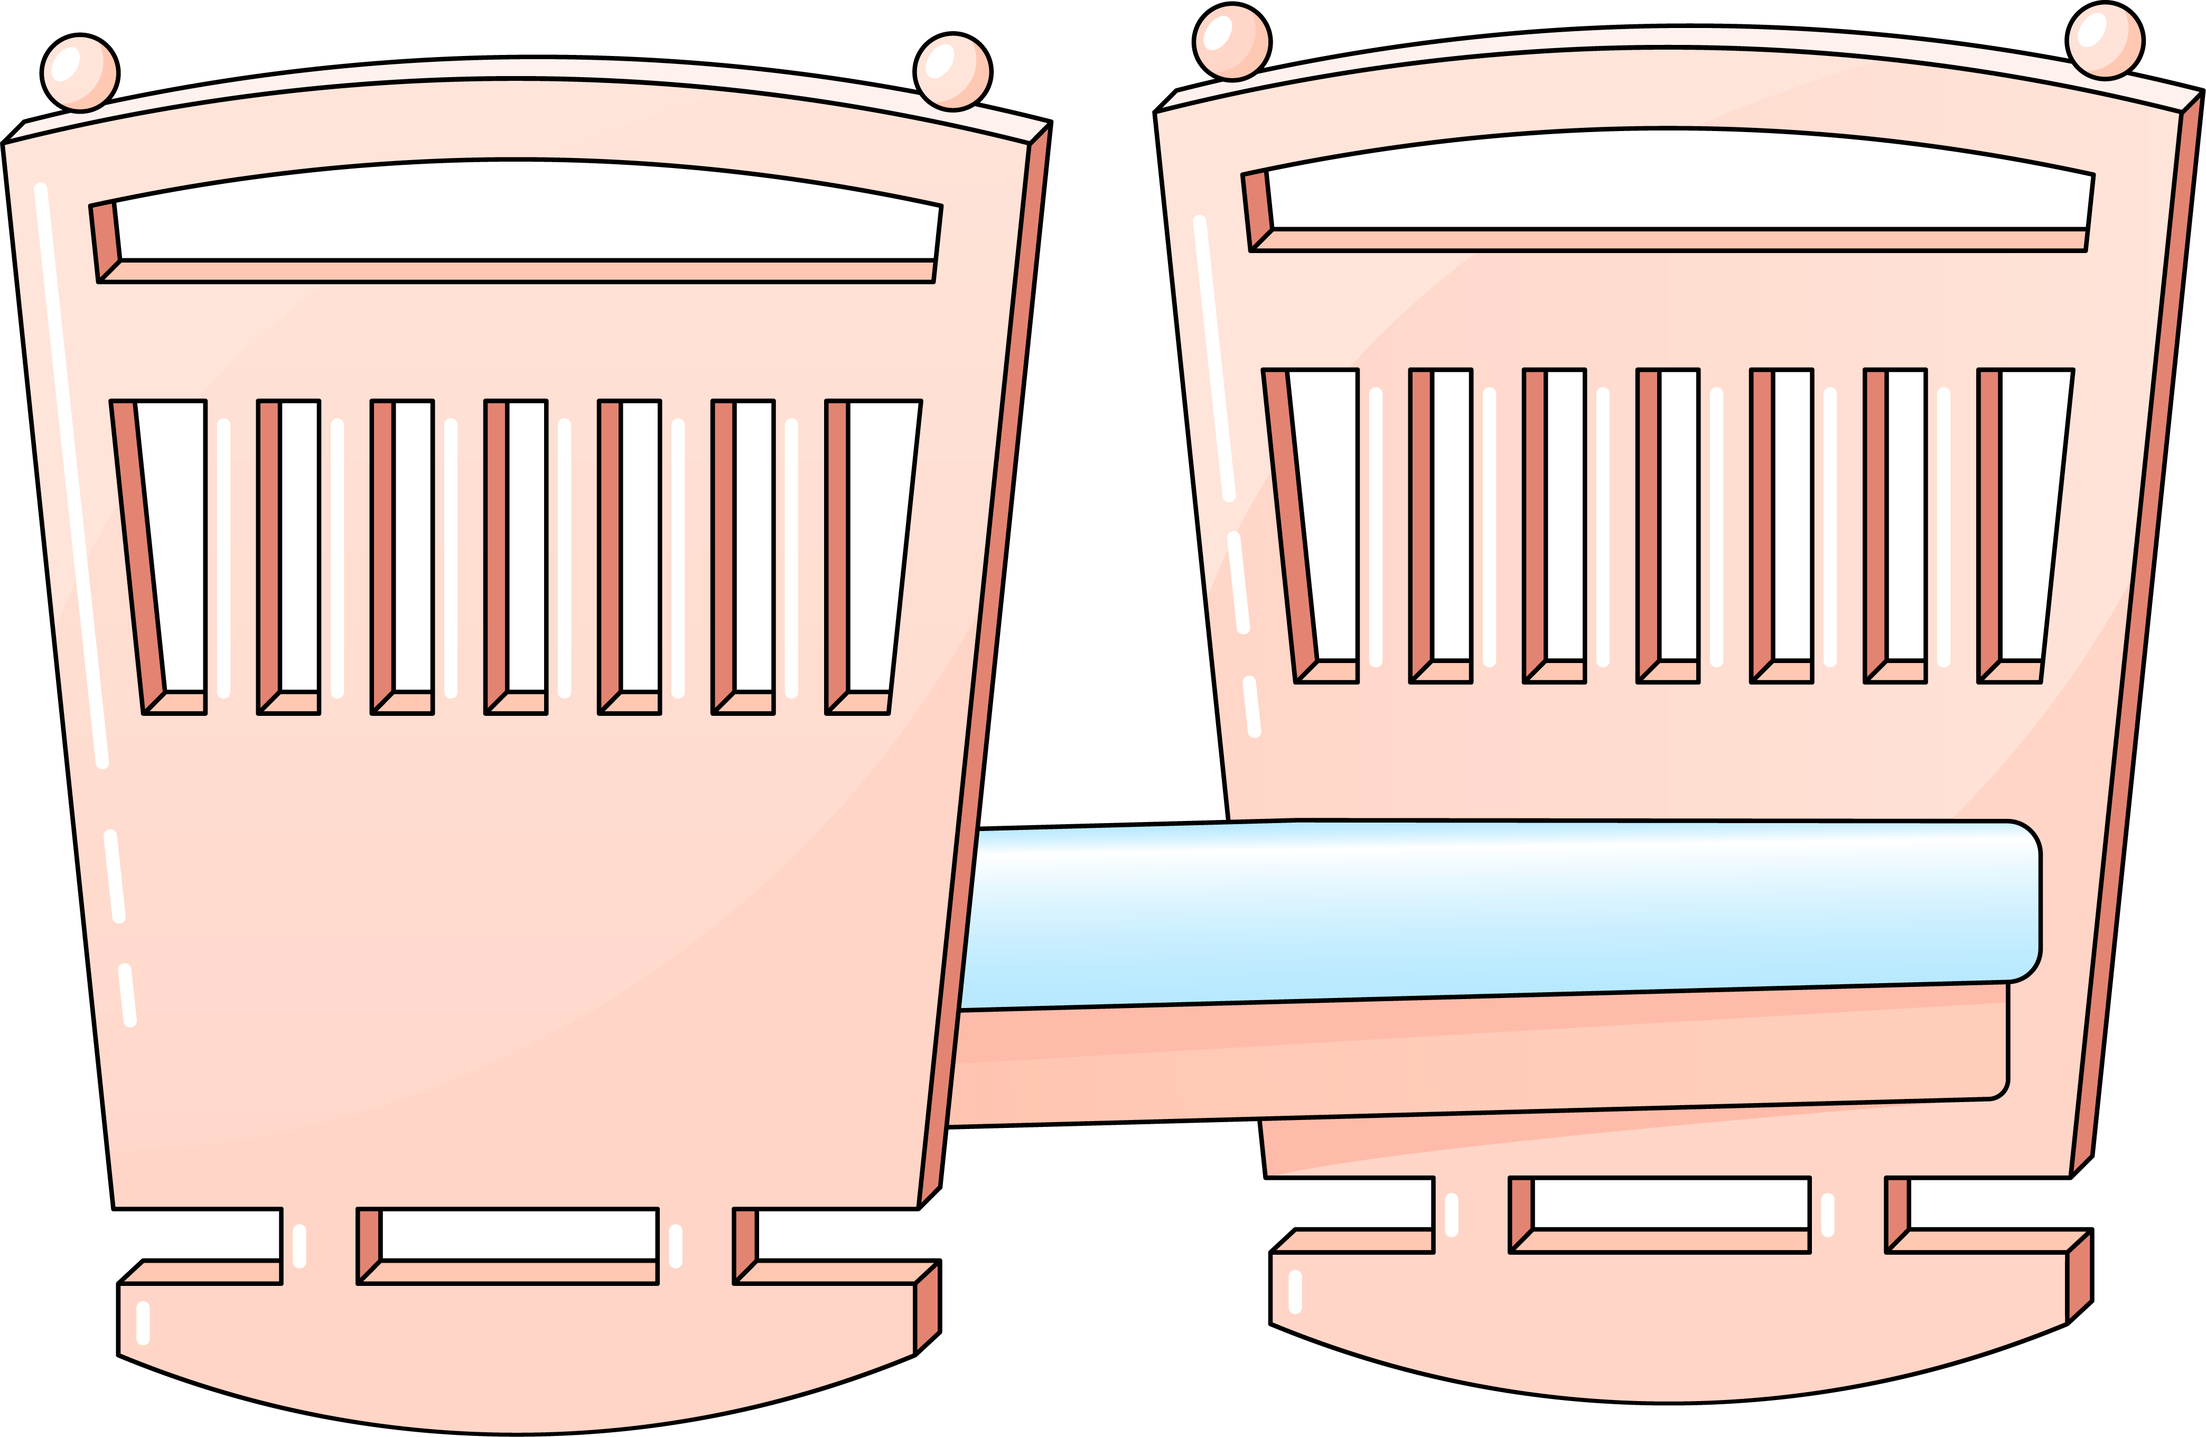
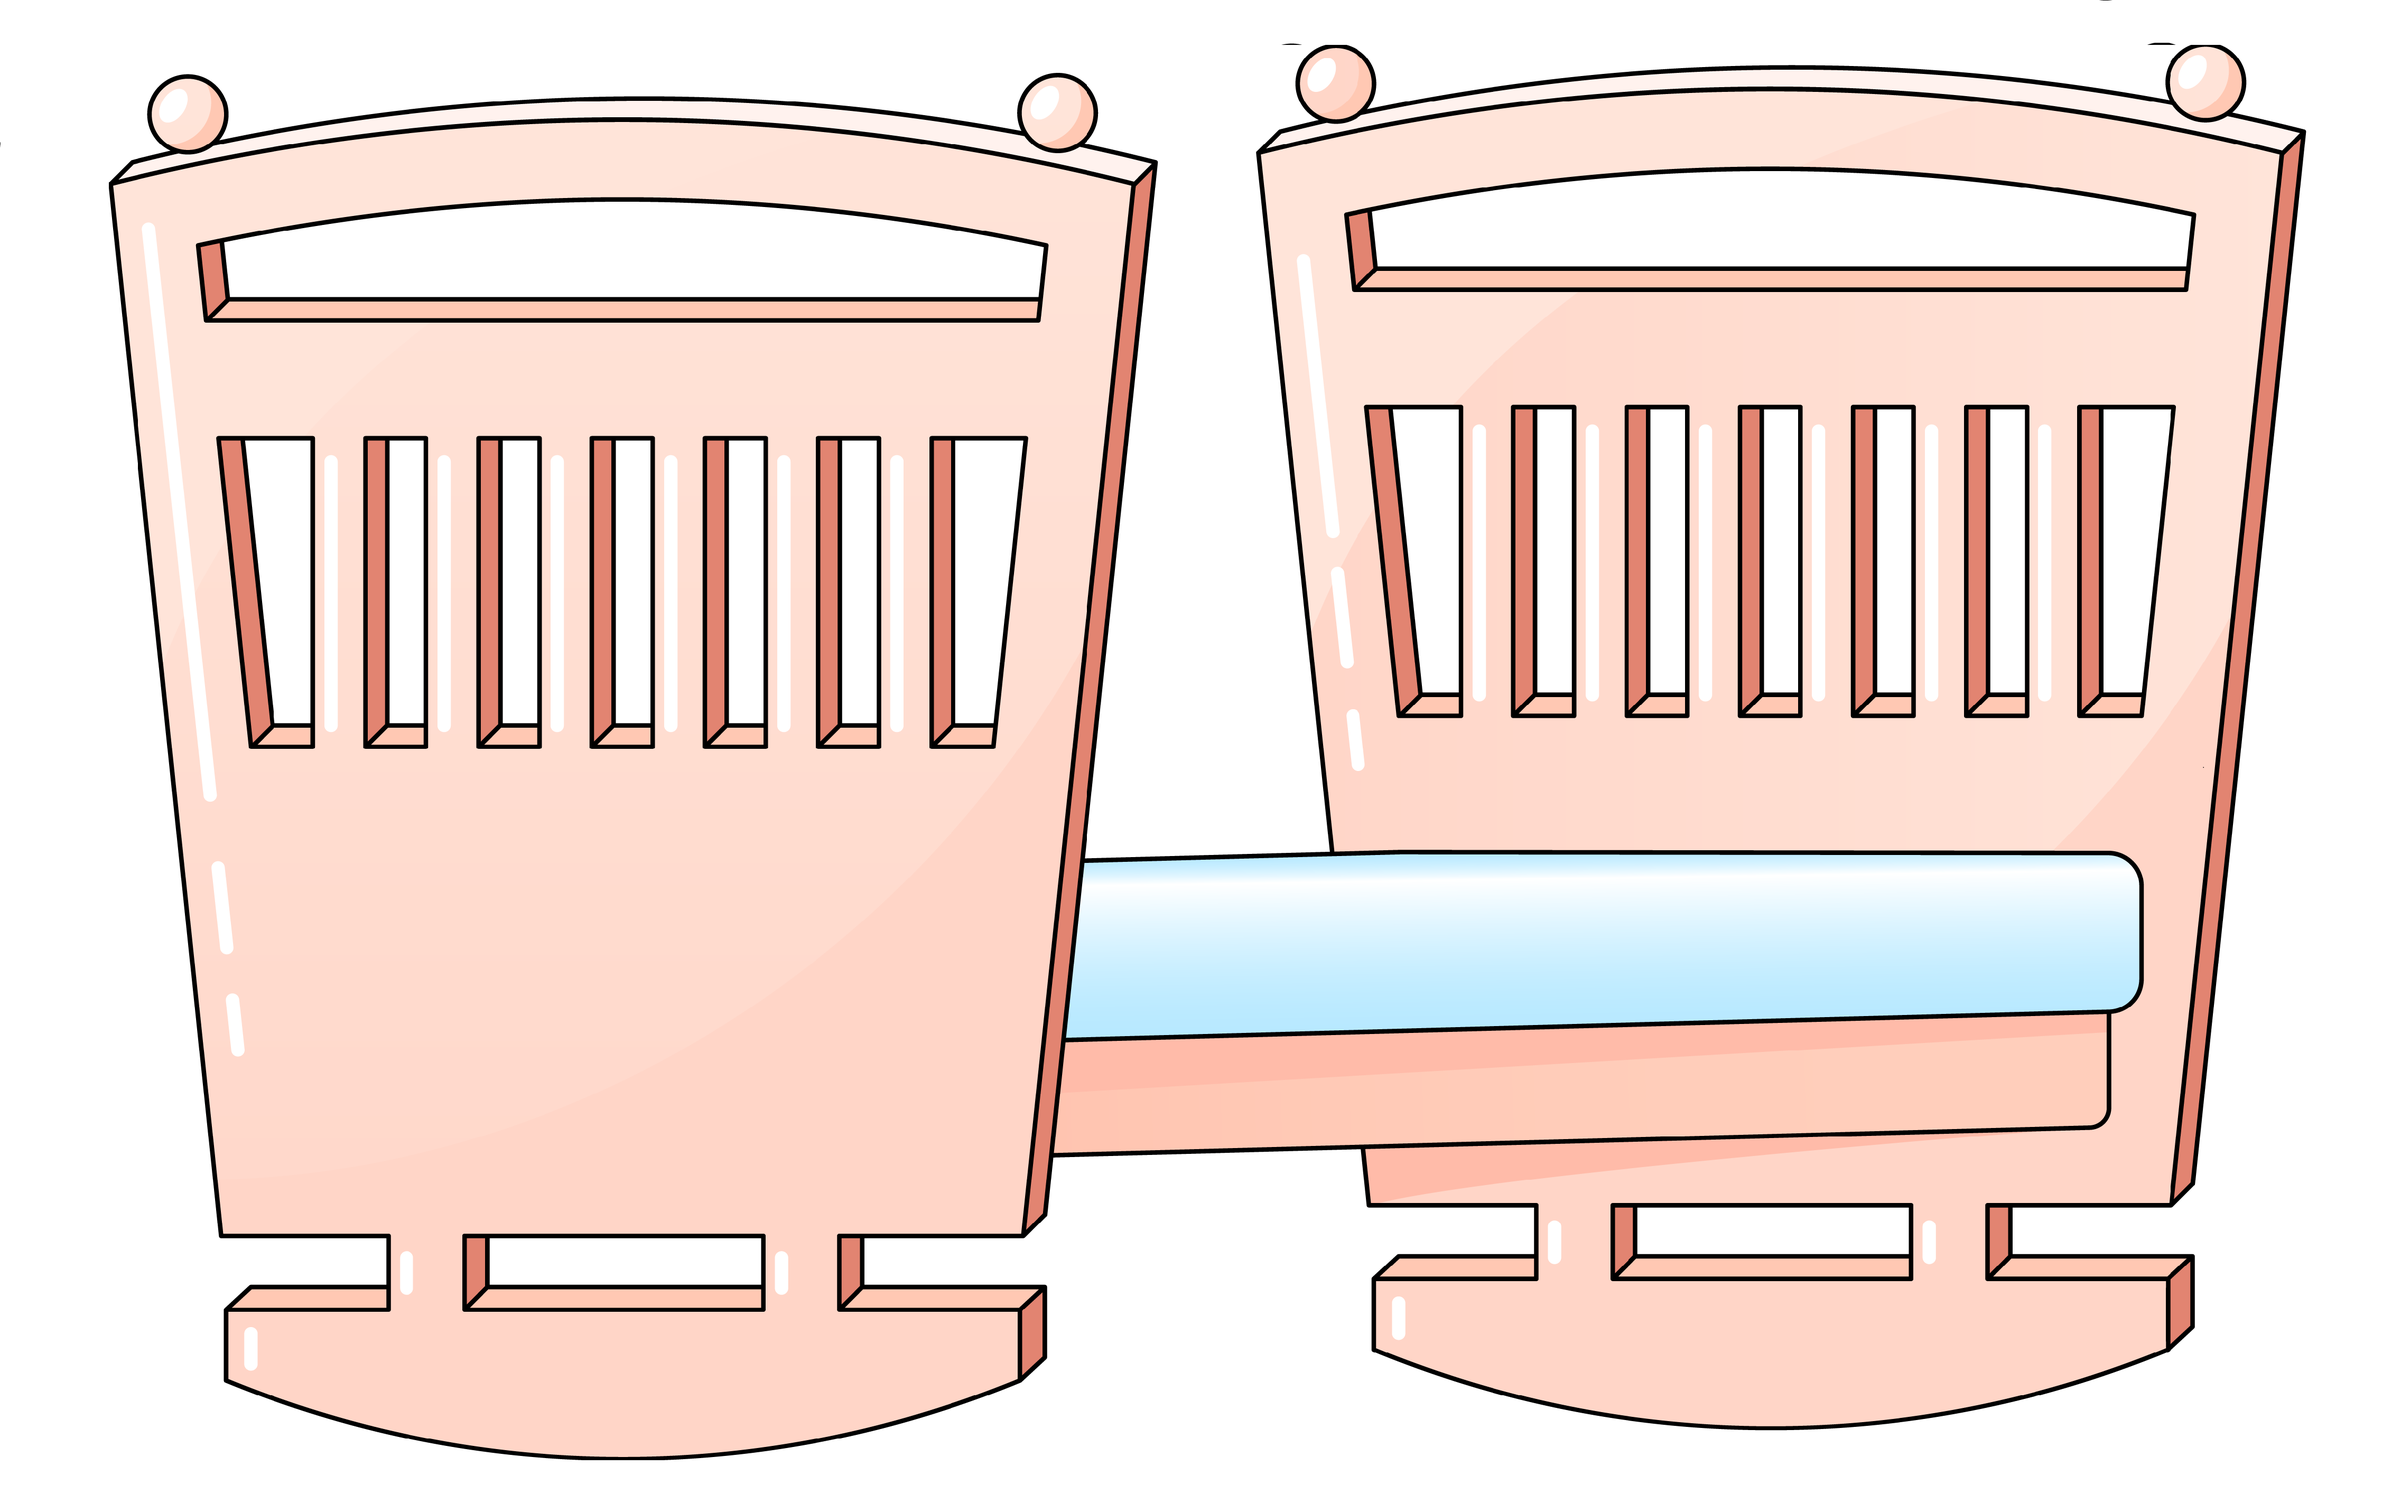
doll rotate

diff --git a/Сложность_1/2/js-data/doll_2_script.js b/Сложность_1/2/js-data/doll_2_script.js
@@ -20,19 +20,21 @@
     const soundPut = document.querySelector('#doll_2_2_mmr')
     const soundSong = document.querySelector('#doll_2_3_mmr')
     const well_done = wrapper.querySelector('.doll_2_Well_done')
+    const eyes = wrapper.querySelector('.doll_2_eyes')
 
 
     // Собирается элементы в переменные, создаются вспомогательные переменные
 
 
-    let windoll_2_ = false;
     // Обработчик кнопки "Вернуть к исходному состоянию"
     resetBtn.addEventListener('click', reset);
 
     function reset() {
         bed.src = 'Images_1/doll_2_img/crib.png'
-        draggingItem.classList.remove('hide')
+        doll.classList.remove('hide')
         well_done.classList.remove('onViewdoll_2');
+        doll.classList.remove('doll_2_rotate')
+        eyes.style.display = 'none'
 
     }
     // Обработчик кнопки "Полный экран"
@@ -76,6 +78,7 @@
         draggingElem.style.top = null;
         draggingElem.style.left = null;
         dropPlace.append(draggingElem);
+        draggingItem = null
     }
 
     doll.addEventListener('pointerdown', mouseDown)
@@ -159,23 +162,16 @@
             draggingItem.hidden = false;
 
             if (!elemBelow) return;
+            if(elemBelow.classList.contains('doll_2_bed')){
+                draggingItem.classList.add('doll_2_rotate')
+                eyes.style.display = 'inherit'
+            }else {
+                draggingItem.classList.remove('doll_2_rotate')
+                eyes.style.display = 'none'
+        }
 
             // ОБРАБОТКА СОБЫТИЯ НАХОЖДЕНИЯ НАД БЛОКОМ И ВЫЛЕТА ИЗ НЕГО (ПО НЕОБХОДИМИОСТИ)
-
-
-            let droppableBelow = elemBelow.closest('.houseElement'); // БЕРЁМ НУЖНЫЙ БЛОК 
-
-            if (currentDroppable != droppableBelow) {
-                if (currentDroppable) {
-                    // ЛОГИКА ОБРАБОТКИ ПРОЦЕССА "ВЫЛЕТА" ИЗ DROPPABLE
-                    leaveDroppable(currentDroppable);
-                }
-                currentDroppable = droppableBelow;
-                // ЛОГИКА ОБРАБОТКИ ПРОЦЕССА, КОГДА МЫ "ВЛЕТАЕМ" В ЭЛЕМЕНТ
-                if (currentDroppable) {
-                    enterDroppable(currentDroppable);
-                }
-            }
+           
         }
 
 
@@ -244,30 +240,4 @@
     };
 
 
-
-
-
-    // обработка положительного или отрицательного результата сбора домика
-
-
-
-
-
-
-    function winTextSwitcherdoll_2_(feedBack) {
-        if (windoll_2_) {
-            if (wrapper.querySelector('.doll_2_Well_done').classList.contains('fadedoll_2_')) {
-
-                wrapper.querySelector('.doll_2_Well_done').classList.remove('fadedoll_2_');
-                wrapper.querySelector('.doll_2_Well_done').classList.add('onViewdoll_2_');
-                feedBackdoll_2_.src = feedBack;
-            }
-            else if (wrapper.querySelector('.doll_2_Well_done').classList.contains('onViewdoll_2_')) {
-                wrapper.querySelector('.doll_2_Well_done').classList.remove('onViewdoll_2_');
-                wrapper.querySelector('.doll_2_Well_done').classList.add('fadedoll_2_');
-
-            }
-        }
-
-    }
 })()

diff --git a/Сложность_1/2/styles/doll_2_style.css b/Сложность_1/2/styles/doll_2_style.css
@@ -213,3 +213,6 @@ html {
     transition: all 1s ease;
     pointer-events: none;
   }
+  .doll_2_rotate{
+    transform: rotate(90deg);
+  }
